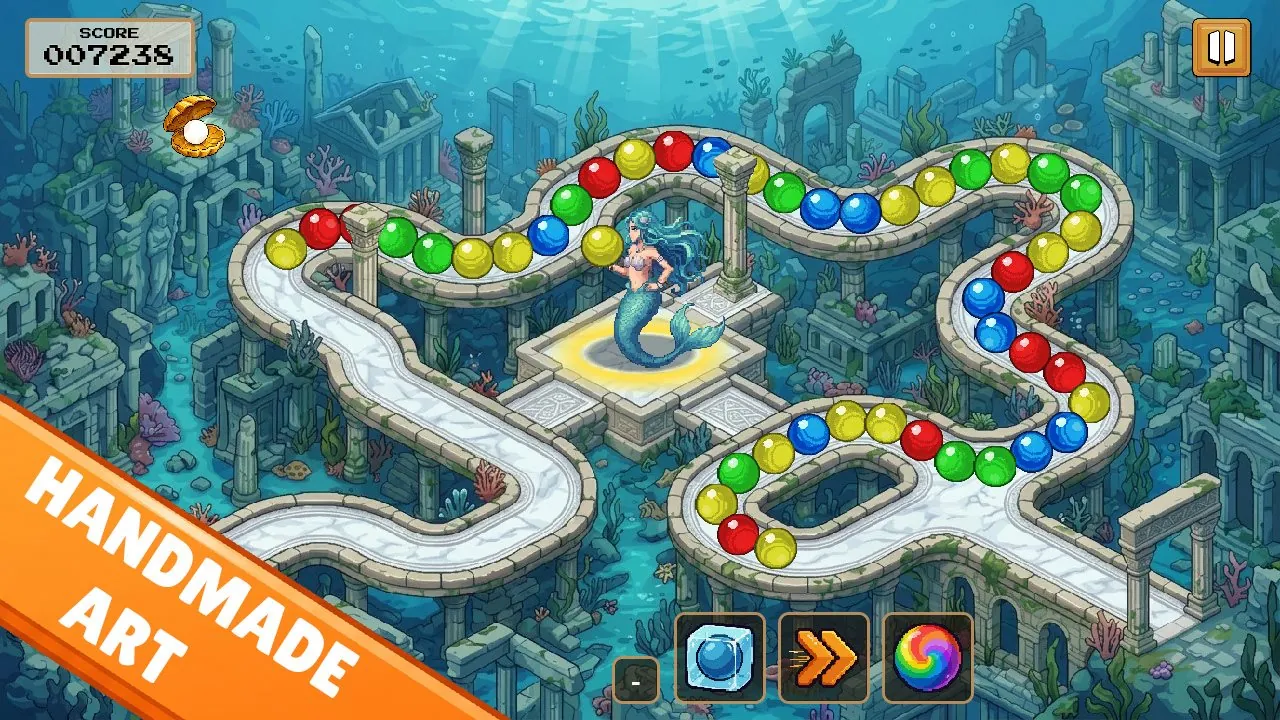
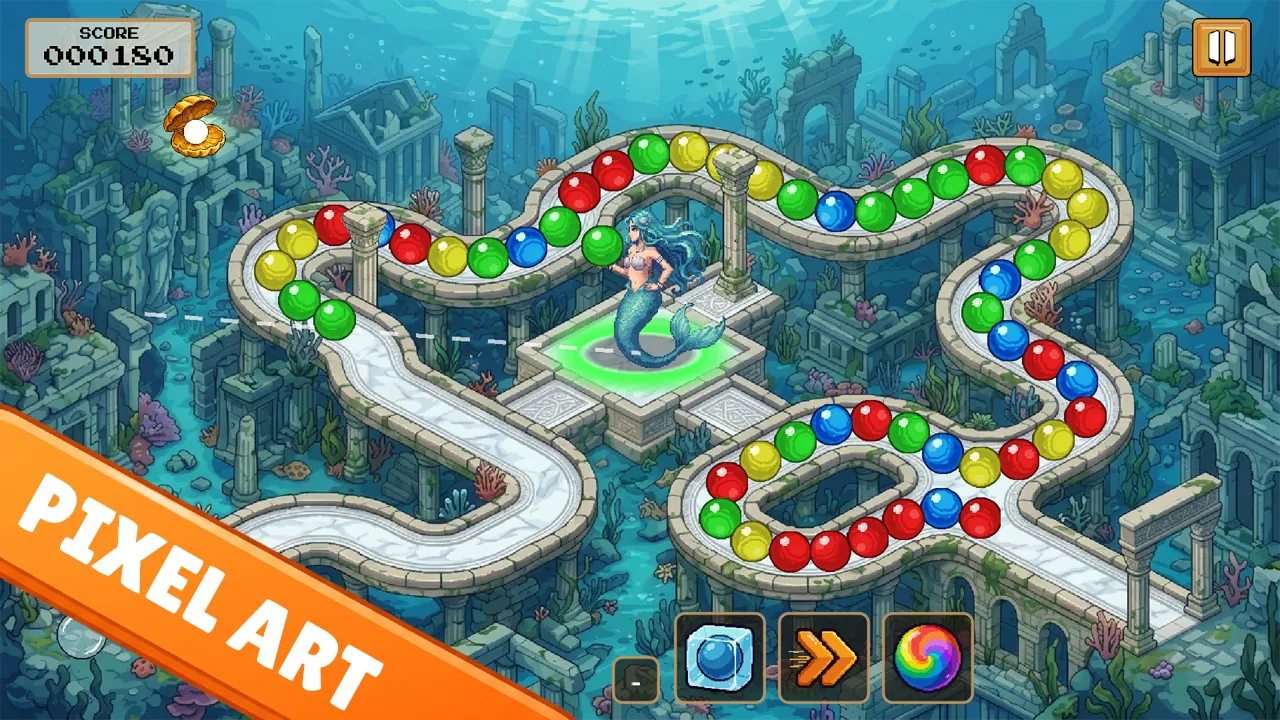
Capturas al dia: las nueve nuevas, y el modo daltonico entra en la galeria
Las ocho capturas de la web eran de la 1.5 y una de ellas ya mentia: el
ranking ensenaba pestanas de nivel 1-5 y hace tiempo que hay 8 por mundo.

El set nuevo trae ademas una captura que no existia (modo daltonico) y
cambia dos cosas de sitio, asi que no basta con sustituir ficheros:

- ESPACIO se ha movido del 6 al 9 en el set nuevo. La tarjeta que
  apuntaba al 6 habria acabado ensenando otra cosa.
- La 2 ya no es Thor solo, es un mosaico de cuatro jefes. Su rotulo
  pasa de "Jefe - Thor" a "10 jefes".

La galeria va de cuatro en cuatro (4x2), asi que sigue con ocho
tarjetas: entra MODO DALTONICO y sale ESPACIO, que ya aparece dentro
del mosaico de "10 mundos". Es la unica captura que ensena algo que no
ensena ninguna otra, y acompana lo que la pagina ya cuenta.

webpify.py acepta ahora png ademas de jpg (las nuevas llegan en png) y
admite un filtro para regenerar solo una familia sin tocar el resto:

    python scratchpad/webpify.py screenshots

diff --git a/index.html b/index.html
@@ -1231,9 +1231,9 @@
           <span class="gallery-tag"><span data-lang="en">World · Asian</span><span data-lang="es">Mundo · Asiático</span></span>
         </button>
 
-        <button type="button" class="orbex-reveal gallery-card" onclick="openLightbox('assets/images/screenshots/2.webp','Thor, the Nordic world boss')" aria-label="Thor, the Nordic world boss">
-          <img src="assets/images/screenshots/2-thumb.webp" alt="Thor, the Nordic world boss" loading="lazy">
-          <span class="gallery-tag"><span data-lang="en">Boss · Thor</span><span data-lang="es">Jefe · Thor</span></span>
+        <button type="button" class="orbex-reveal gallery-card" onclick="openLightbox('assets/images/screenshots/2.webp','Four of the ten bosses')" aria-label="Four of the ten bosses">
+          <img src="assets/images/screenshots/2-thumb.webp" alt="Four of the ten bosses" loading="lazy">
+          <span class="gallery-tag"><span data-lang="en">10 bosses</span><span data-lang="es">10 jefes</span></span>
         </button>
 
         <button type="button" class="orbex-reveal gallery-card" onclick="openLightbox('assets/images/screenshots/4.webp','Atlantis world gameplay')" aria-label="Atlantis world gameplay capture">
@@ -1241,9 +1241,9 @@
           <span class="gallery-tag"><span data-lang="en">World · Atlantis</span><span data-lang="es">Mundo · Atlantis</span></span>
         </button>
 
-        <button type="button" class="orbex-reveal gallery-card" onclick="openLightbox('assets/images/screenshots/6.webp','Space world gameplay')" aria-label="Space world gameplay capture">
-          <img src="assets/images/screenshots/6-thumb.webp" alt="Space world gameplay capture" loading="lazy">
-          <span class="gallery-tag"><span data-lang="en">World · Space</span><span data-lang="es">Mundo · Espacio</span></span>
+        <button type="button" class="orbex-reveal gallery-card" onclick="openLightbox('assets/images/screenshots/6.webp','Colourblind mode: shapes on every orb')" aria-label="Colourblind mode capture">
+          <img src="assets/images/screenshots/6-thumb.webp" alt="Colourblind mode: a distinct shape on every orb" loading="lazy">
+          <span class="gallery-tag"><span data-lang="en">Colourblind mode</span><span data-lang="es">Modo daltónico</span></span>
         </button>
 
         <button type="button" class="orbex-reveal gallery-card" onclick="openLightbox('assets/images/screenshots/3.webp','Four of the ten worlds')" aria-label="Four of the ten worlds">

diff --git a/scratchpad/webpify.py b/scratchpad/webpify.py
@@ -7,6 +7,8 @@ asi que no se versiona ni se despliega: son la FUENTE, no el asset.
 
     python scratchpad/webpify.py           regenera todo
     python scratchpad/webpify.py --dry     solo dice que haria
+    python scratchpad/webpify.py screenshots   solo los patrones que
+                                               contengan esa palabra
 
 Cada imagen se genera al tamano en que se PINTA, con el ancho a 2x del tamano
 CSS real. Ahi esta el 94 % del ahorro: los diez retratos de jefe llegaban en
@@ -30,13 +32,13 @@ JOBS = [
     ("images/avatars/*.png",       128, 85),   # 38 px CSS
     ("images/icons/*.png",         160, 88),
     ("images/orbex-title.png",    1120, 90),   # hero, max 560 px CSS
-    ("images/screenshots/*.jpg",  1280, 80),   # el lightbox la ensena a tamano real
+    ("images/screenshots/*.[jp][pn]g", 1280, 80),  # el lightbox la ensena a tamano real
     ("images/bg/espacio.jpg",     1600, 78),   # fondo del hero
 ]
 
 # Las capturas ademas llevan miniatura: la tarjeta de la galeria mide ~275 px,
 # asi que servirle la de 1280 costaba 1,5 MB en vez de 525 KB.
-THUMB = ("images/screenshots/*.jpg", 720, 78)
+THUMB = ("images/screenshots/*.[jp][pn]g", 720, 78)
 
 
 def convert(src, dst, maxw, quality, dry):
@@ -56,13 +58,15 @@ def convert(src, dst, maxw, quality, dry):
     return w, h, os.path.getsize(dst) if os.path.exists(dst) else 0
 
 
-def main(dry=False):
+def main(dry=False, only=""):
     if not os.path.isdir(SRC):
         sys.exit("No encuentro %s.\nAhi van los originales, con la misma "
                  "jerarquia de carpetas que assets/." % SRC)
 
     before = after = 0
     for pattern, maxw, q in JOBS:
+        if only and only not in pattern:
+            continue
         for src in sorted(glob.glob(os.path.join(SRC, pattern))):
             rel = os.path.relpath(src, SRC).replace("\\", "/")
             dst = os.path.join(ROOT, "assets", os.path.splitext(rel)[0] + ".webp")
@@ -73,7 +77,8 @@ def main(dry=False):
                   % (rel, os.path.getsize(src) // 1024, nsz // 1024, w, h))
 
     pattern, maxw, q = THUMB
-    for src in sorted(glob.glob(os.path.join(SRC, pattern))):
+    if not only or only in pattern:
+      for src in sorted(glob.glob(os.path.join(SRC, pattern))):
         rel = os.path.relpath(src, SRC).replace("\\", "/")
         dst = os.path.join(ROOT, "assets", os.path.splitext(rel)[0] + "-thumb.webp")
         w, h, nsz = convert(src, dst, maxw, q, dry)
@@ -88,4 +93,5 @@ def main(dry=False):
 
 
 if __name__ == "__main__":
-    main(dry="--dry" in sys.argv)
+    args = [a for a in sys.argv[1:] if not a.startswith("--")]
+    main(dry="--dry" in sys.argv, only=args[0] if args else "")
